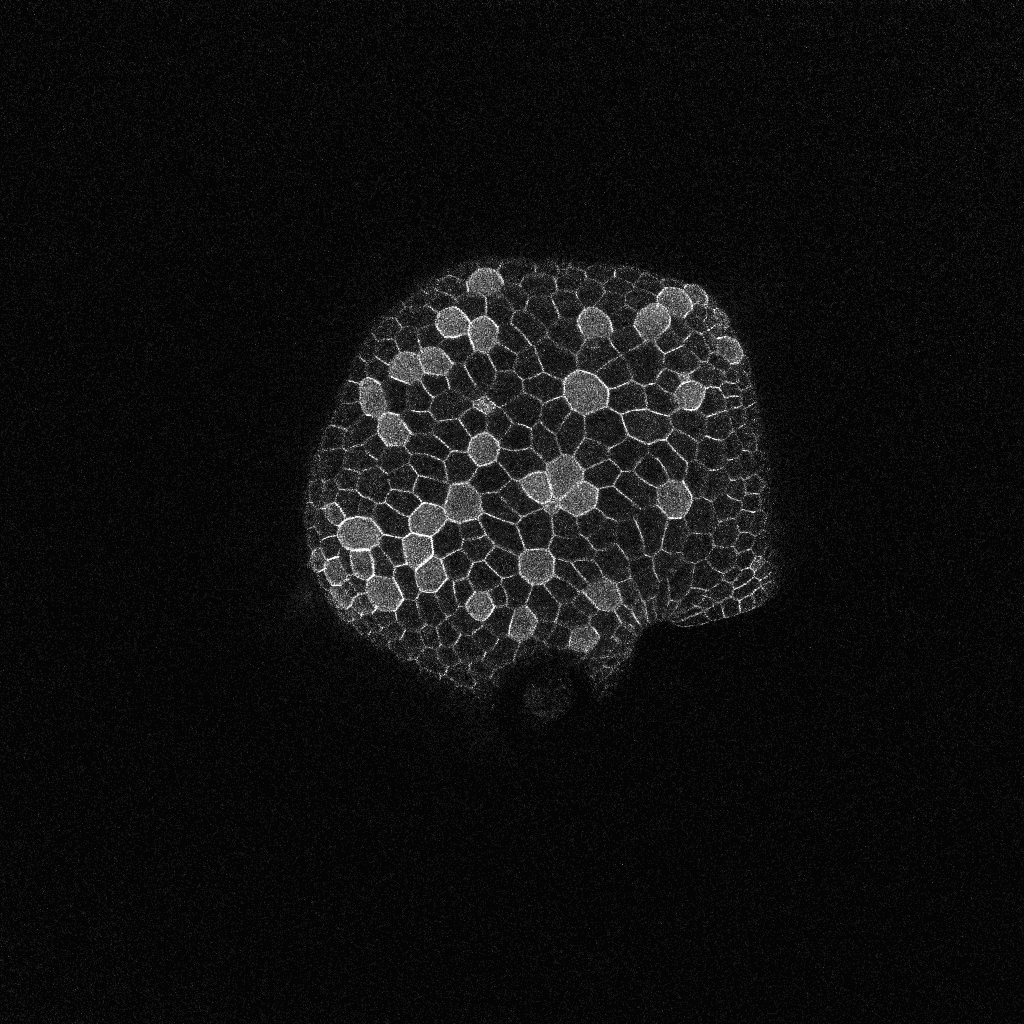
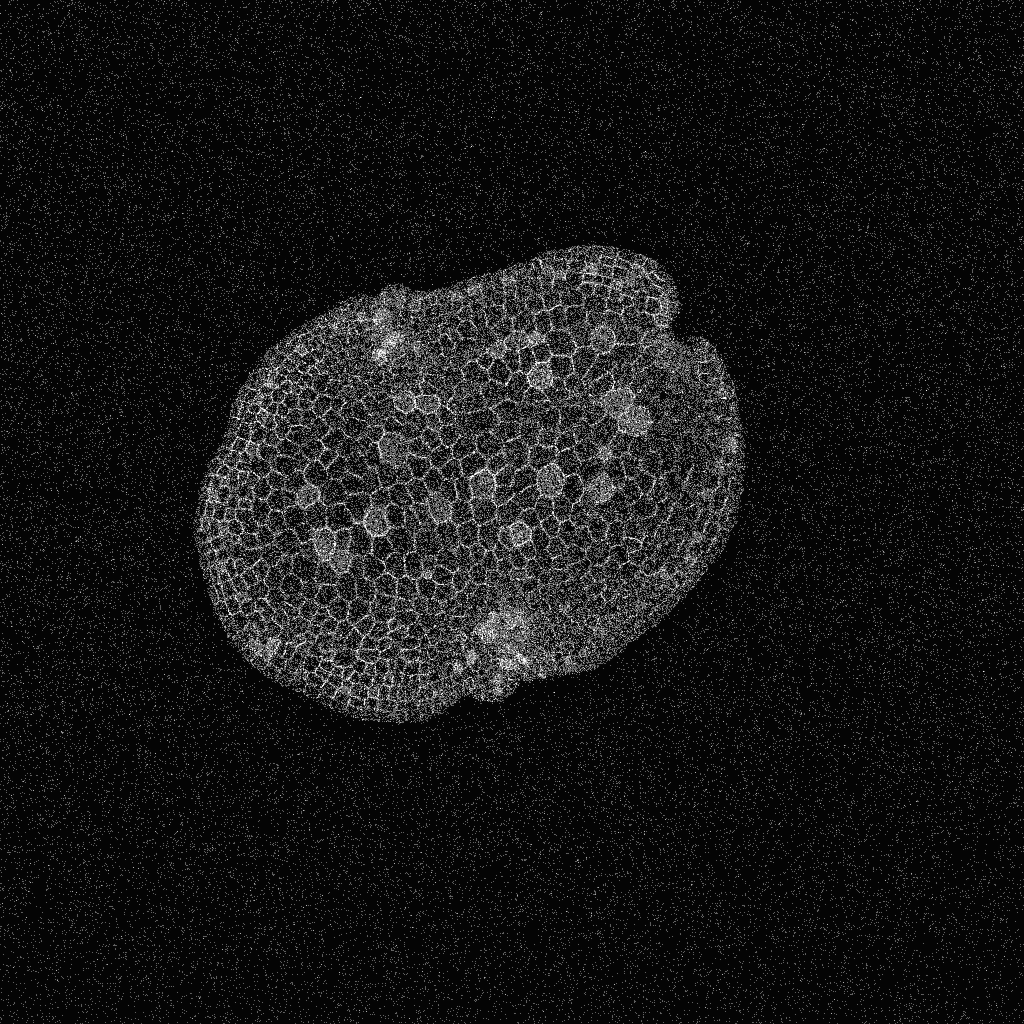
a

Changed region(s): [[0.1875, 0.2188, 0.7812, 0.7188], [0.9375, 0.0625, 0.9688, 0.0938]]

diff --git a/sr795/semantic_model_testing.py b/sr795/semantic_model_testing.py
@@ -20,7 +20,7 @@ import torchvision.transforms.functional as TF
 # What input image do you want to test?
 input_img_filepath = '../test_data/200224_LQ_LQ-Position001.tiff'
 input_img_filepath = '../watershed_comparison_photos/original.tiff'
-#input_img_filepath = '../watershed_comparison_photos/enhanced.png'
+input_img_filepath = '../watershed_comparison_photos/enhanced.png'
 #input_img_filepath = '../data/test2.tiff'
 #input_img_filepath = '../data/marcanthia_enhanced.png' 
 #input_img_filepath = '../data/trial.png'
@@ -29,7 +29,7 @@ input_img_filepath = '../watershed_comparison_photos/original.tiff'
 #model_filepath = '../data/semseg_model_100epochs_16fdim_unet16_bce.pt'
 model_filepath = '../../../../sr795/DeepLearningFourthYear/deep-learning-marchantia/SCRIPTS/segmentation/semseg_results/final_model.pt'
 # Where would you like to save the image?
-save_img_location = './sem_original.png'
+save_img_location = './sem_enhanced.png'
 
 num_feature_dim = 16
 
